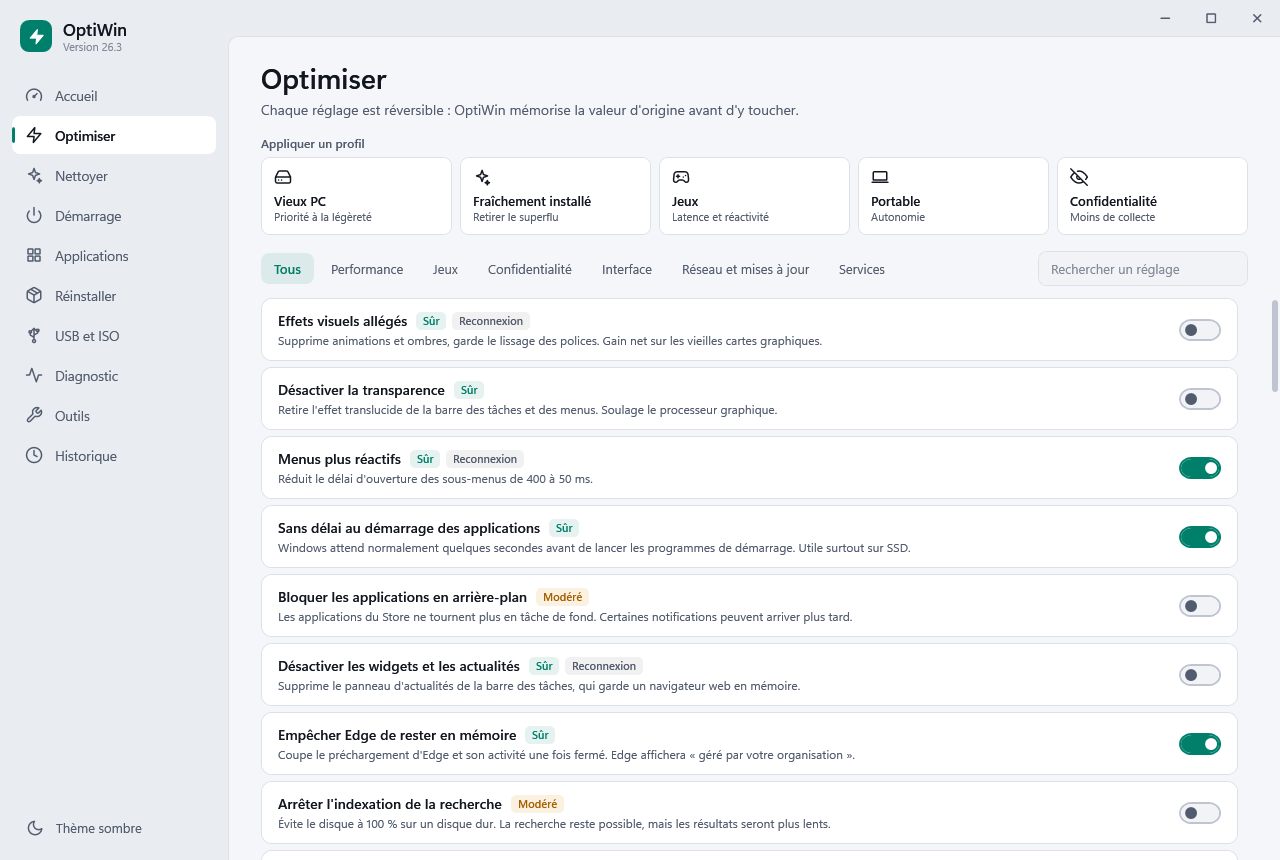
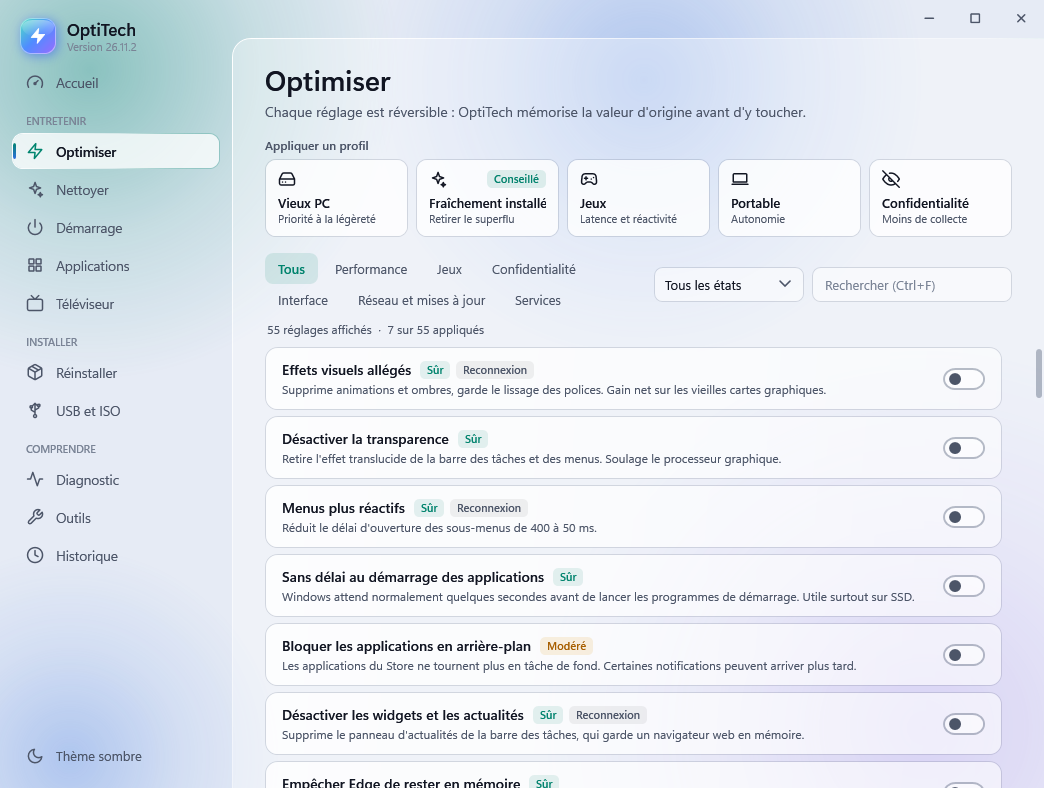
Site et README : captures de la nouvelle interface OptiTech
Claude-Session: https://claude.ai/code/session_01EbvTEsngDTdm9fYqmoVzfF

diff --git a/docs/index.html b/docs/index.html
@@ -233,7 +233,7 @@
     </div>
     <p class="meta">Version 26.11.2 · un seul fichier · Windows 10 et 11 · licence MIT</p>
     <div class="shot">
-      <img src="img/accueil.png" width="1280" height="860" alt="Accueil d'OptiTech : score de santé de 98 sur 100, processeur et mémoire en direct, espace disque, et bouton « Optimiser ce PC »">
+      <img src="img/accueil.png" width="1044" height="788" alt="Accueil d'OptiTech : score de santé de 98 sur 100, processeur et mémoire en direct, espace disque, et bouton « Optimiser ce PC »">
     </div>
   </div>
 
@@ -295,7 +295,7 @@
           <li><svg class="icon"><use href="#i-check"/></svg><span><b>Relecture après écriture</b> : la clé est comparée à l'image.</span></li>
         </ul>
       </div>
-      <img src="img/usb.png" width="1280" height="860" loading="lazy" alt="Page USB et ISO : choix de l'image, de la clé, du mode de démarrage et des options de Windows">
+      <img src="img/usb.png" width="1044" height="788" loading="lazy" alt="Page USB et ISO : choix de l'image, de la clé, du mode de démarrage et des options de Windows">
     </div>
   </section>
 
@@ -304,9 +304,10 @@
       <span class="kicker">Aperçu</span>
       <h2 class="section-title">Clair, en thème sombre comme en thème clair.</h2>
       <div class="gallery">
-        <figure><img src="img/optimiser-clair.png" width="1280" height="860" loading="lazy" alt="Page Optimiser en thème clair, avec les profils et les interrupteurs de réglages"><figcaption>Optimiser : profils et réglages, chacun avec son niveau de risque.</figcaption></figure>
-        <figure><img src="img/reinstaller.png" width="1280" height="860" loading="lazy" alt="Page Réinstaller : création et ouverture d'un profil"><figcaption>Réinstaller : vos réglages et logiciels, d'un PC à l'autre.</figcaption></figure>
-        <figure><img src="img/diagnostic.png" width="1280" height="860" loading="lazy" alt="Page Diagnostic : mesures avant/après et santé des disques"><figcaption>Diagnostic : l'état réel de vos disques.</figcaption></figure>
+        <figure><img src="img/optimiser-clair.png" width="1044" height="788" loading="lazy" alt="Page Optimiser en thème clair, avec les profils et les interrupteurs de réglages"><figcaption>Optimiser : profils et réglages, chacun avec son niveau de risque.</figcaption></figure>
+        <figure><img src="img/reinstaller.png" width="1044" height="788" loading="lazy" alt="Page Réinstaller : création et ouverture d'un profil"><figcaption>Réinstaller : vos réglages et logiciels, d'un PC à l'autre.</figcaption></figure>
+        <figure><img src="img/diagnostic.png" width="1044" height="788" loading="lazy" alt="Page Diagnostic : mesures avant/après et santé des disques"><figcaption>Diagnostic : l'état réel de vos disques.</figcaption></figure>
+        <figure><img src="img/televiseur.png" width="1044" height="788" loading="lazy" alt="Page Téléviseur : connexion d'un téléviseur Android TV et plan de nettoyage"><figcaption>Téléviseur : connecter, analyser, couper le superflu.</figcaption></figure>
       </div>
     </div>
   </section>

diff --git a/README.md b/README.md
@@ -108,6 +108,7 @@ Faites vos premiers essais avec une clé vide, et testez une ISO allégée dans 
 |---|---|
 | ![Optimiser](docs/img/optimiser-clair.png) | ![Clé bootable](docs/img/usb.png) |
 | ![Réinstaller](docs/img/reinstaller.png) | ![Diagnostic](docs/img/diagnostic.png) |
+| ![Téléviseur](docs/img/televiseur.png) | ![Accueil, thème clair](docs/img/accueil-clair.png) |
 
 ## Compiler
 
